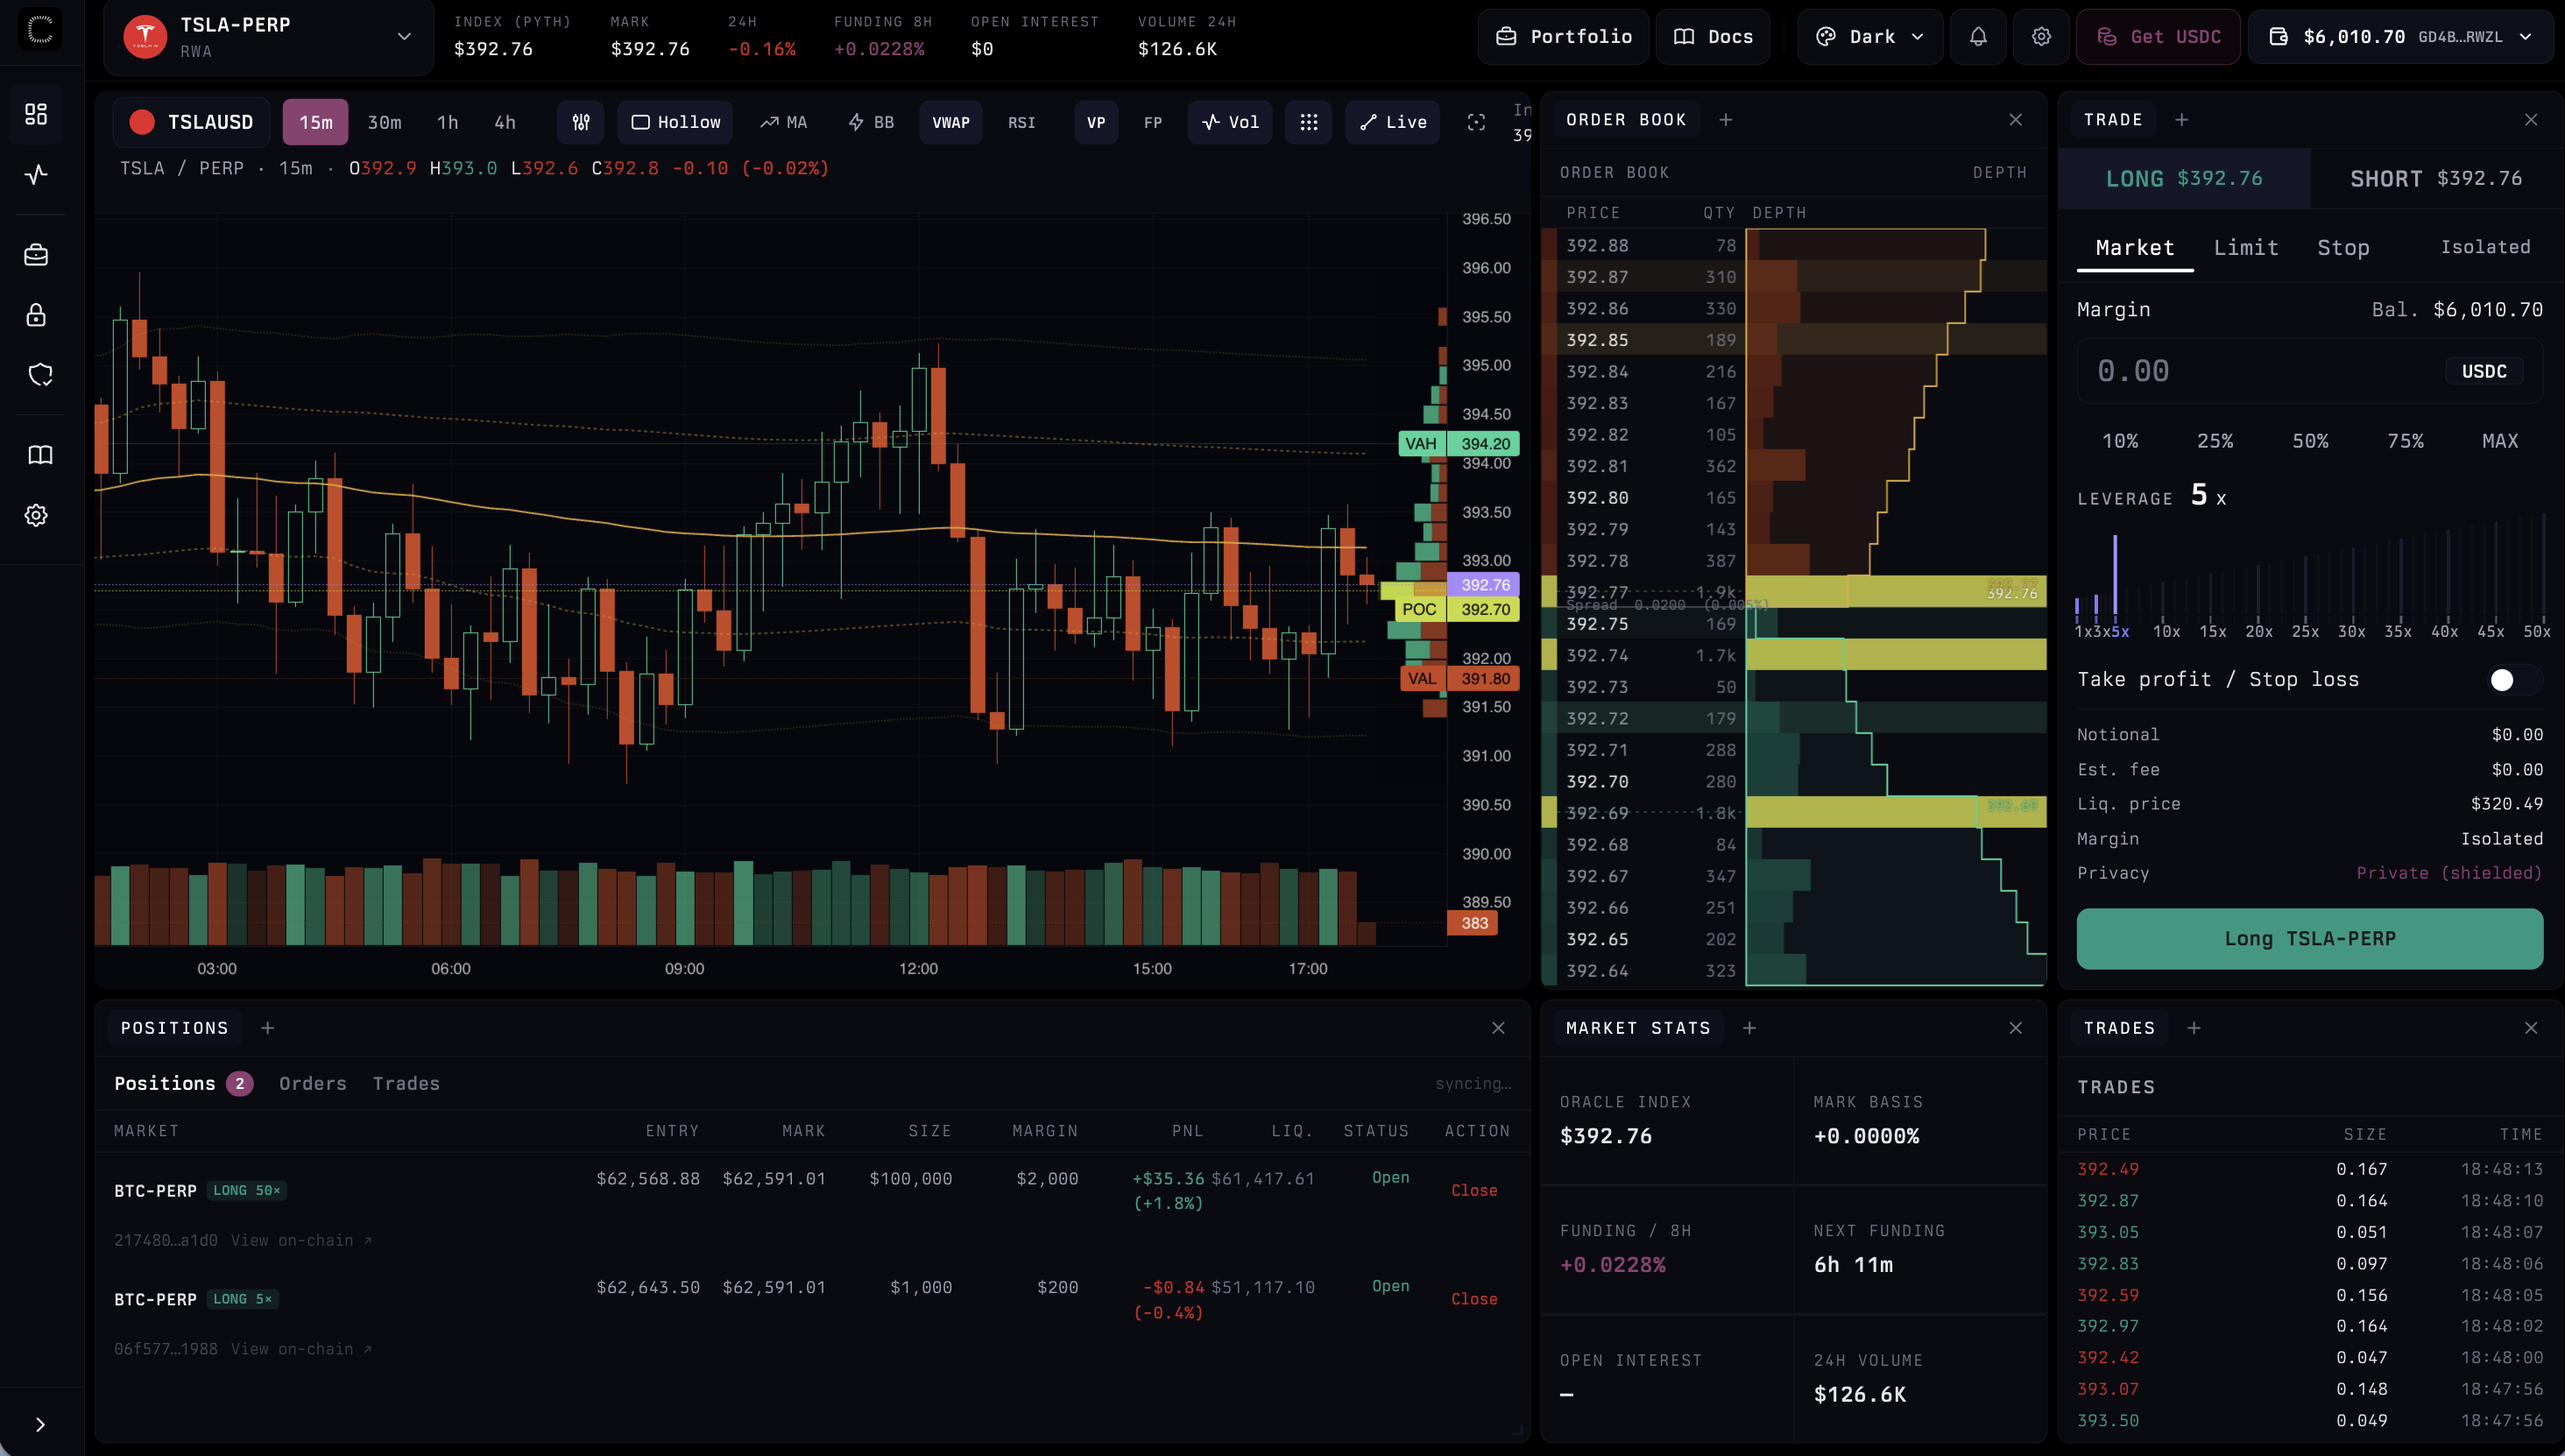
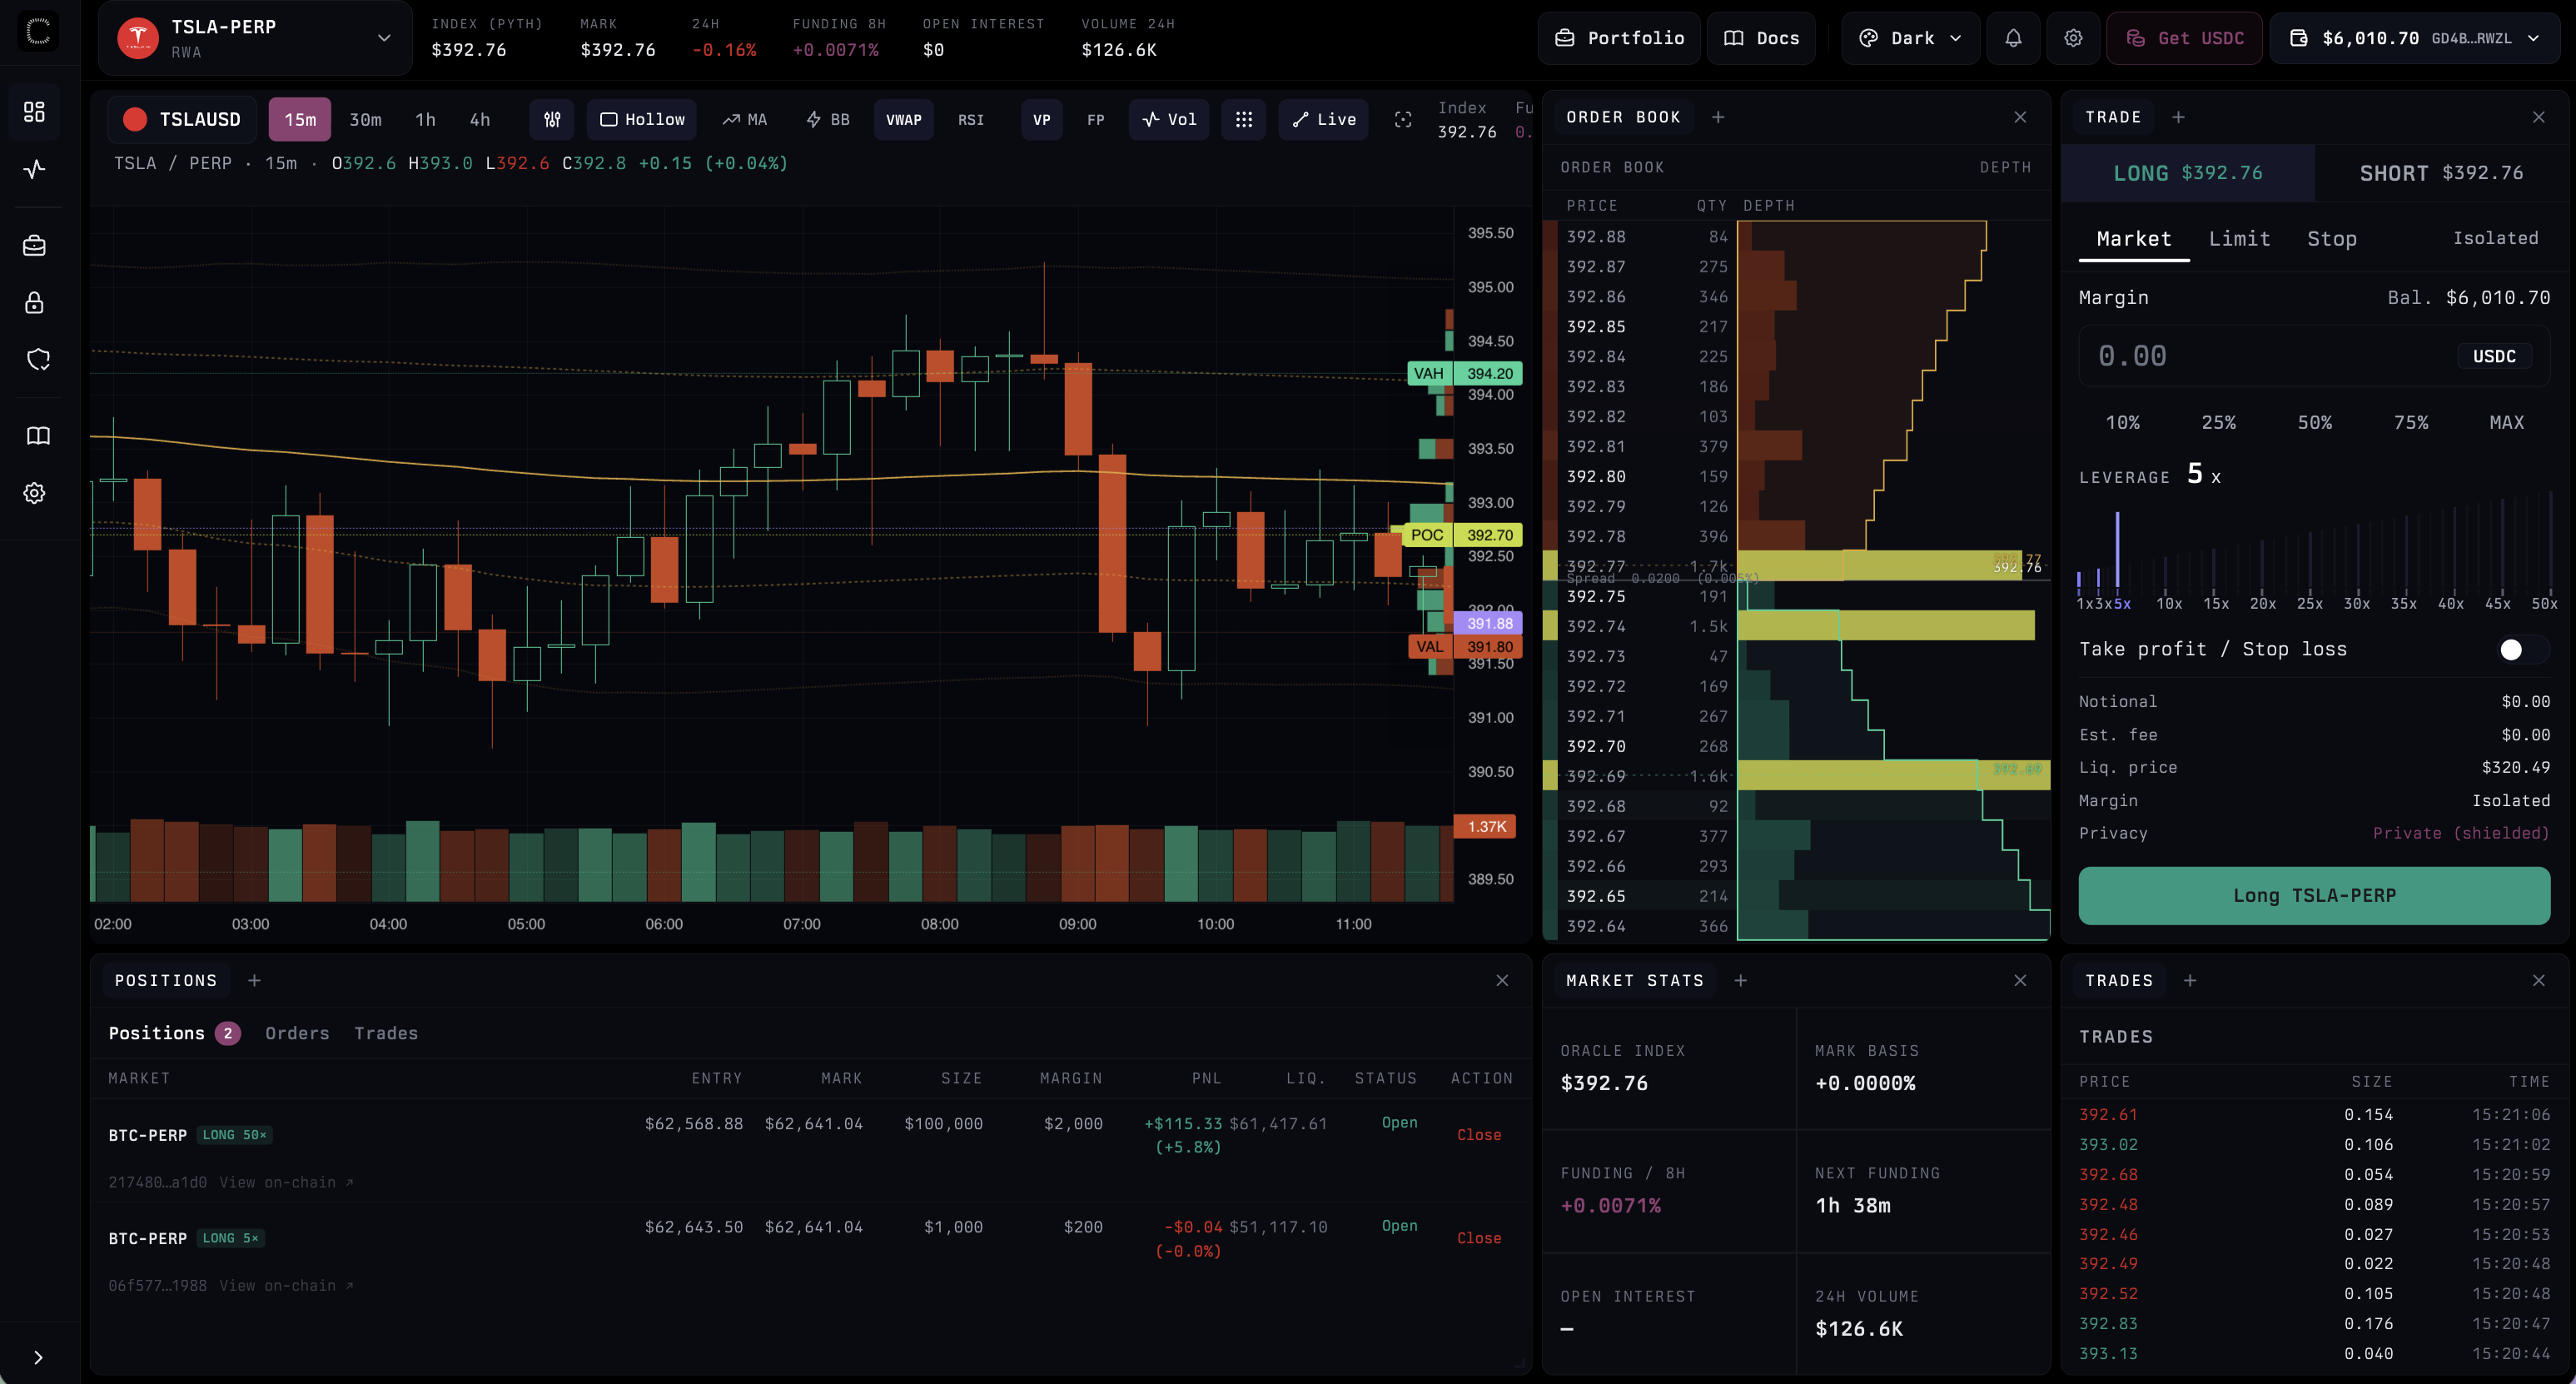
auto-claim: store recipient on order, auto-withdraw on close/liquidation

diff --git a/app/app/components/trade/positions-panel.tsx b/app/app/components/trade/positions-panel.tsx
@@ -116,6 +116,7 @@ export default function PositionsPanel() {
         collateral_amount: Math.round(pos.collateral * PRICE_SCALE),
         is_close: true,
         close_position_cmt: cmt,
+        recipient: publicKey ?? undefined,
       })
 
       toast.update(progressId, { description: 'Matching close order…', progress: 70 })
@@ -132,10 +133,10 @@ export default function PositionsPanel() {
 
       toast.update(progressId, {
         type: 'success',
-        title: `${symbol} closed`,
-        description: 'Position settled — claim funds when the row appears under Settled',
+        title: `${symbol} ${pos.side === 0 ? 'Long' : 'Short'} closed`,
+        description: undefined,
         progress: undefined,
-        duration: 8000,
+        duration: 5000,
       })
     } catch (err) {
       const msg = err instanceof Error ? err.message : String(err)

diff --git a/app/app/lib/tee-client.ts b/app/app/lib/tee-client.ts
@@ -63,6 +63,7 @@ export const tee = {
     close_position_cmt?: string
     tp_price?: number
     sl_price?: number
+    recipient?: string
   }): Promise<{ commitment: string }> {
     const resp = await call('init', {
       cmd: 'init',
@@ -80,6 +81,7 @@ export const tee = {
       close_position_cmt: params.close_position_cmt,
       tp_price: params.tp_price ?? 0,
       sl_price: params.sl_price ?? 0,
+      recipient: params.recipient,
     })
     if (!resp.ok || !resp.commitment) throw new Error(resp.error ?? 'init failed')
     return { commitment: resp.commitment }
@@ -101,6 +103,7 @@ export const tee = {
     close_position_cmt?: string
     tp_price?: number
     sl_price?: number
+    recipient?: string
   }): Promise<{ commitment: string }> {
     const resp = await call('fast-init', {
       cmd: 'fast-init',
@@ -118,6 +121,7 @@ export const tee = {
       close_position_cmt: params.close_position_cmt,
       tp_price: params.tp_price ?? 0,
       sl_price: params.sl_price ?? 0,
+      recipient: params.recipient,
     })
     if (!resp.ok || !resp.commitment) throw new Error(resp.error ?? 'fast-init failed')
     return { commitment: resp.commitment }

diff --git a/app/app/components/trade/trading-panel.tsx b/app/app/components/trade/trading-panel.tsx
@@ -522,6 +522,7 @@ export default function TradingPanel() {
           collateral_amount: Number(collateralUnits),
           tp_price: tpUnits || undefined,
           sl_price: slUnits || undefined,
+          recipient: publicKey ?? undefined,
         }),
         tee.noteProof(noteAmount, noteSecret),
       ])

diff --git a/tools/tee-match/src/position.rs b/tools/tee-match/src/position.rs
@@ -1,5 +1,6 @@
-use crate::{db, engine, log, stellar};
+use crate::{db, engine, log, proof, stellar};
 use anyhow::{anyhow, Result};
+use serde_json;
 use std::path::Path;
 
 /// Funding-index scale: 1_000_000_000 = 1.0 (100%).
@@ -96,6 +97,7 @@ fn process_side(
             collateral,
             secrets.leverage,
             &asset_id_hex,
+            None, // protocol positions have no recipient
         );
     }
 
@@ -108,6 +110,7 @@ fn process_side(
         collateral,
         secrets.leverage,
         &asset_id_hex,
+        secrets.recipient.clone(),
     )
 }
 
@@ -120,6 +123,7 @@ fn increase_position(
     collateral: i128,
     leverage: u64,
     asset_id_hex: &str,
+    recipient: Option<String>,
 ) -> Result<()> {
     let idx = store.get_funding_index(asset_id_hex)?;
 
@@ -153,6 +157,7 @@ fn increase_position(
             open_time_ns: engine::now_nanos(),
             tp_price,
             sl_price,
+            recipient,
         },
     };
 
@@ -205,7 +210,7 @@ pub fn close_position(
     pos_cmt: &str,
     exit_price: u64,
     _close_size: u64,
-    _keys_dir: &Path,
+    keys_dir: &Path,
 ) -> Result<()> {
     let mut state = store
         .get_position_state(pos_cmt)?
@@ -232,6 +237,9 @@ pub fn close_position(
     state.size = 0;
     store.insert_position_state(pos_cmt, &state)?;
 
+    // Save recipient before state is consumed.
+    let recipient = state.recipient.clone();
+
     let note = stellar::create_settlement_note(settlement_amount);
     stellar::relay_settle_position(
         perp_id,
@@ -257,6 +265,32 @@ pub fn close_position(
         },
     )?;
     store.insert_settlement_note(pos_cmt, &note.note_cmt)?;
+
+    // Auto-claim: withdraw settlement note to the user's Stellar wallet.
+    if let Some(addr) = recipient {
+        if settlement_amount > 0 {
+            let (_, note_null_hex) = proof::compute_note_cmt_hex(settlement_amount as u64, note.note_secret);
+                    let proof_out = proof::gen_note_proof(keys_dir, settlement_amount as u64, note.note_secret);
+                    match proof_out {
+                        Ok(out) => {
+                            let proof_json = serde_json::json!({
+                                "a": out.proof.proof.a,
+                                "b": out.proof.proof.b,
+                                "c": out.proof.proof.c,
+                            }).to_string();
+                            if let Err(e) = stellar::relay_withdraw_note(
+                                perp_id, &note.note_cmt, &note_null_hex, &addr,
+                                settlement_amount, &note.blinding_hex, &proof_json,
+                            ) {
+                        log::error!("auto-claim withdraw failed", "cmt", engine::short_id(pos_cmt), "err", e.to_string());
+                    }
+                }
+                Err(e) => {
+                    log::error!("auto-claim proof generation failed", "cmt", engine::short_id(pos_cmt), "err", e.to_string());
+                }
+            }
+        }
+    }
 
     log::info!(
         "position closed",

diff --git a/tools/tee-match/src/liquidator.rs b/tools/tee-match/src/liquidator.rs
@@ -4,6 +4,7 @@ use crate::stellar;
 use anyhow::Result;
 use rand::Rng;
 use serde_json;
+use std::path::PathBuf;
 use std::sync::Arc;
 use std::time::{Duration, Instant};
 
@@ -15,6 +16,7 @@ pub fn spawn(
     store: Arc<SecretStore>,
     perp_id: String,
     interval_secs: u64,
+    keys_dir: Arc<PathBuf>,
 ) -> std::thread::JoinHandle<()> {
     let interval = Duration::from_secs(interval_secs);
     std::thread::spawn(move || {
@@ -34,7 +36,7 @@ pub fn spawn(
                     }
                     let actual_cmt = &cmt[4..]; // strip "pos_" prefix
                     checked += 1;
-                    match check_and_liquidate(&perp_id, actual_cmt, &store) {
+                    match check_and_liquidate(&perp_id, actual_cmt, &store, &keys_dir) {
                         Ok(Some(tx_hash)) => {
                             liq += 1;
                             log::info!("Liquidated position", "cmt", &actual_cmt[..16], "tx", &tx_hash[..16]);
@@ -68,6 +70,7 @@ pub fn check_and_liquidate(
     perp_id: &str,
     commitment: &str,
     store: &SecretStore,
+    keys_dir: &PathBuf,
 ) -> Result<Option<String>> {
     let state = match store.get_position_state(commitment)? {
         Some(s) => s,
@@ -153,6 +156,9 @@ pub fn check_and_liquidate(
             (settlement, 0i128, 0i128)
         };
 
+        // Save recipient before state is consumed.
+        let recipient = state.recipient.clone();
+
         let settlement = stellar::create_settlement_note(to_note);
 
         let tx_hash = stellar::relay_settle_position(
@@ -176,6 +182,31 @@ pub fn check_and_liquidate(
             note_secret: settlement.note_secret,
         })?;
         store.insert_settlement_note(commitment, &settlement.note_cmt)?;
+
+        // Auto-claim: withdraw settlement note to the user's Stellar wallet.
+        if let Some(ref addr) = recipient {
+            if to_note > 0 {
+                let (_, note_null_hex) = crate::proof::compute_note_cmt_hex(to_note as u64, settlement.note_secret);
+                match crate::proof::gen_note_proof(keys_dir, to_note as u64, settlement.note_secret) {
+                    Ok(out) => {
+                        let proof_json = serde_json::json!({
+                            "a": out.proof.proof.a,
+                            "b": out.proof.proof.b,
+                            "c": out.proof.proof.c,
+                        }).to_string();
+                        if let Err(e) = stellar::relay_withdraw_note(
+                            perp_id, &settlement.note_cmt, &note_null_hex, addr,
+                            to_note, &settlement.blinding_hex, &proof_json,
+                        ) {
+                            log::error!("liquidation auto-claim withdraw failed", "cmt", &commitment[..16], "err", e.to_string());
+                        }
+                    }
+                    Err(e) => {
+                        log::error!("liquidation auto-claim proof failed", "cmt", &commitment[..16], "err", e.to_string());
+                    }
+                }
+            }
+        }
 
         log::info!("Full liquidation executed", "cmt", &commitment[..16], "reward", actual_reward);
         Ok(Some(tx_hash))

diff --git a/tools/tee-match/src/serve.rs b/tools/tee-match/src/serve.rs
@@ -23,6 +23,7 @@ struct BatchItem {
     protocol: Option<bool>,
     asset_id_hex: Option<String>,
     collateral_amount: Option<i128>,
+    recipient: Option<String>,
 }
 
 #[derive(Deserialize, Debug, Default)]
@@ -54,6 +55,7 @@ struct Request {
     close_position_cmt: Option<String>,
     tp_price: Option<u64>,
     sl_price: Option<u64>,
+    recipient: Option<String>,
 }
 
 #[derive(Serialize, Default)]
@@ -189,7 +191,7 @@ pub fn run(
             "interval_secs",
             interval
         );
-        crate::liquidator::spawn(liq_store, perp, interval);
+        crate::liquidator::spawn(liq_store, perp, interval, keys.clone());
     }
 
     // Spawn the funding-rate cron to periodically update the global funding index.
@@ -398,6 +400,7 @@ fn handle_init(store: &db::SecretStore, keys: &PathBuf, req: &Request) -> Respon
         collateral_amount: req.collateral_amount.unwrap_or(0),
         tp_price: req.tp_price.unwrap_or(0),
         sl_price: req.sl_price.unwrap_or(0),
+        recipient: req.recipient.clone(),
     };
 
     log::info!(
@@ -529,10 +532,11 @@ fn handle_batch_fast_init(store: &db::SecretStore, req: &Request) -> Response {
             close_position_cmt: None,
             protocol: item.protocol.unwrap_or(false),
             asset_id_hex: item.asset_id_hex.clone(),
-        collateral_amount: item.collateral_amount.unwrap_or(0),
-        tp_price: 0,
-        sl_price: 0,
-    };
+            collateral_amount: item.collateral_amount.unwrap_or(0),
+            tp_price: 0,
+            sl_price: 0,
+            recipient: item.recipient.clone(),
+        };
     let cmt_hex = proof::compute_commitment_hex(&secrets);
     commitments.push(cmt_hex.clone());
     items.push((cmt_hex, secrets));
@@ -581,6 +585,7 @@ fn handle_fast_init(store: &db::SecretStore, req: &Request) -> Response {
         collateral_amount: req.collateral_amount.unwrap_or(0),
         tp_price: req.tp_price.unwrap_or(0),
         sl_price: req.sl_price.unwrap_or(0),
+        recipient: req.recipient.clone(),
     };
     let cmt_hex = proof::compute_commitment_hex(&secrets);
     log::info!(
@@ -1434,7 +1439,8 @@ pub mod secure {
                 "interval_secs",
                 interval
             );
-            crate::liquidator::spawn(liq_store, perp, interval);
+        let liq_keys = StdArc::new(keys_dir.clone());
+        crate::liquidator::spawn(liq_store, perp, interval, liq_keys);
         }
 
         // Spawn the funding-rate cron to periodically update the global funding index.

diff --git a/tools/tee-match/src/db.rs b/tools/tee-match/src/db.rs
@@ -36,6 +36,9 @@ pub struct OrderSecrets {
     /// Stop-loss trigger price (0 = not set).
     #[serde(default)]
     pub sl_price: u64,
+    /// Stellar wallet address to receive settlement funds.
+    #[serde(default)]
+    pub recipient: Option<String>,
 }
 
 #[derive(Debug, Clone, Serialize, Deserialize)]
@@ -74,6 +77,9 @@ pub struct PositionState {
     /// Stop-loss trigger price (0 = not set).
     #[serde(default)]
     pub sl_price: u64,
+    /// Stellar wallet address to receive settlement funds.
+    #[serde(default)]
+    pub recipient: Option<String>,
 }
 
 #[derive(Debug, Clone, Serialize, Deserialize)]

diff --git a/tools/tee-match/src/stellar.rs b/tools/tee-match/src/stellar.rs
@@ -201,6 +201,7 @@ pub fn relay_open_position(
             open_time_ns: crate::engine::now_nanos(),
             tp_price: 0,
             sl_price: 0,
+            recipient: None,
         };
         store.insert_position_state(position_cmt_hex, &position_state)?;
     }
@@ -378,6 +379,7 @@ pub fn relay_open_position_from_pool(
             open_time_ns: crate::engine::now_nanos(),
             tp_price: 0,
             sl_price: 0,
+            recipient: None,
         };
         store.insert_position_state(position_cmt_hex, &position_state)?;
     }

diff --git a/tools/tee-match/src/main.rs b/tools/tee-match/src/main.rs
@@ -175,6 +175,7 @@ fn main() -> Result<()> {
                 collateral_amount: 0,
                 tp_price: 0,
                 sl_price: 0,
+                recipient: None,
             };
 
             log::debug!(